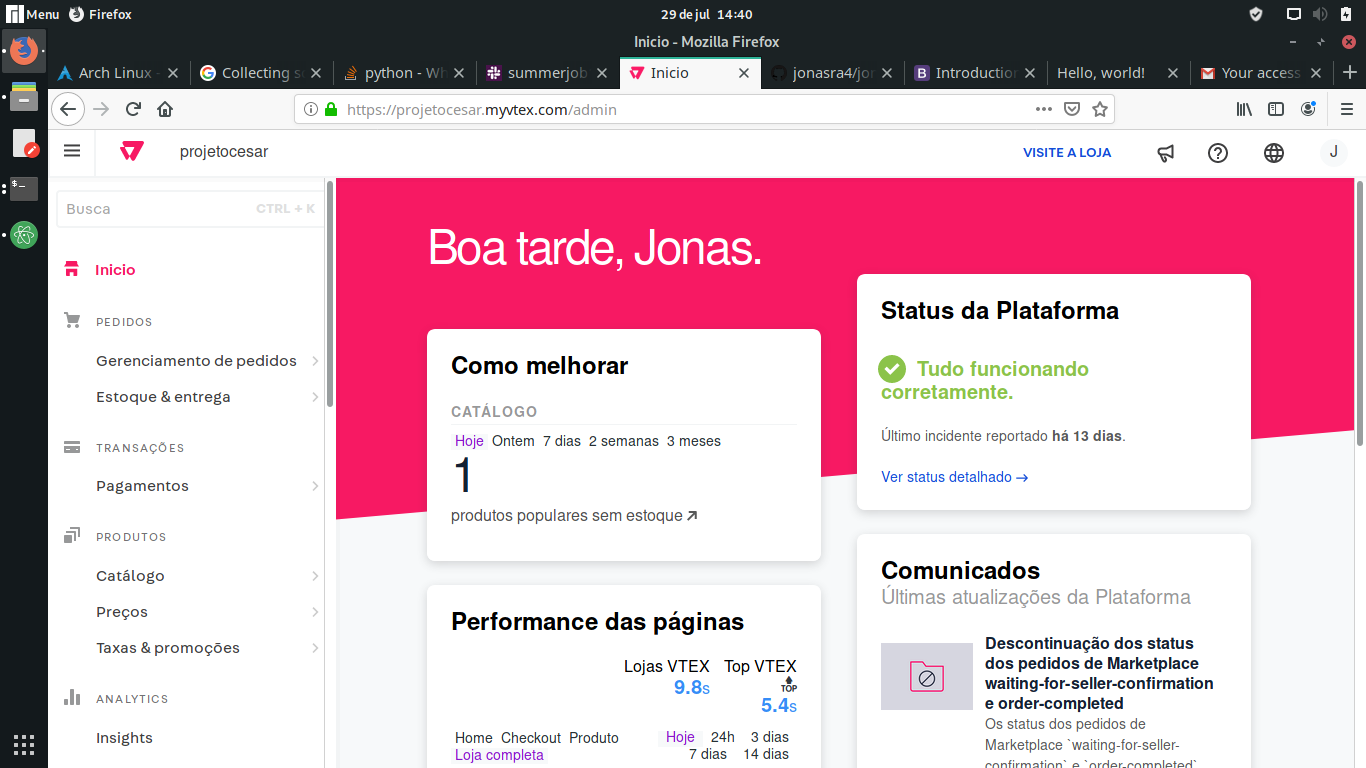
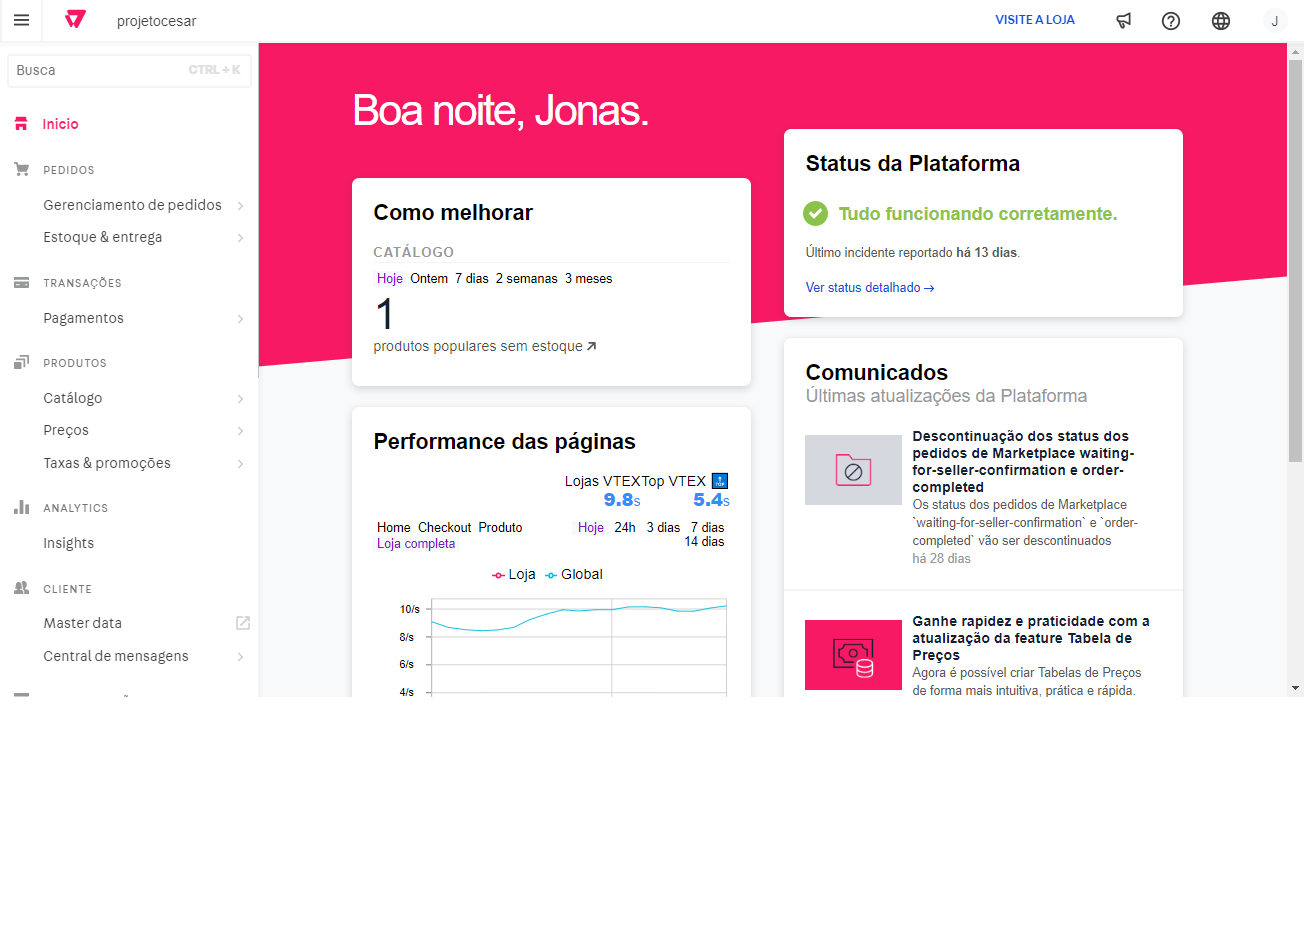
mobile

diff --git a/css/style.css b/css/style.css
@@ -9,3 +9,24 @@ body#help{
 body#status{
    background-image: url("../img/status.png");
 }
+
+@media only screen and (max-width: 600px) {
+  body#admin{
+     background-image: url("../img/admin-mobile.png");
+     background-repeat: no-repeat;
+     background-size: cover;
+  }
+
+  body#help{
+     background-image: url("../img/help-mobile.png");
+     background-repeat: no-repeat;
+     background-size: cover;
+  }
+
+  body#status{
+     background-image: url("../img/status-mobile.png");
+     background-repeat: no-repeat;
+     background-size: cover;
+  }
+
+}

diff --git a/status.html b/status.html
@@ -12,10 +12,6 @@
   </head>
 
   <body id="status">
-    <h1>Hello, world!</h1>
-
-
-
     <!-- Optional JavaScript -->
     <!-- jQuery first, then Popper.js, then Bootstrap JS -->
     <script src="https://code.jquery.com/jquery-3.3.1.slim.min.js" integrity="sha384-q8i/X+965DzO0rT7abK41JStQIAqVgRVzpbzo5smXKp4YfRvH+8abtTE1Pi6jizo" crossorigin="anonymous"></script>

diff --git a/admin.html b/admin.html
@@ -12,10 +12,6 @@
   </head>
 
   <body id="admin">
-    <h1>Hello, world!</h1>
-
-
-
     <!-- Optional JavaScript -->
     <!-- jQuery first, then Popper.js, then Bootstrap JS -->
     <script src="https://code.jquery.com/jquery-3.3.1.slim.min.js" integrity="sha384-q8i/X+965DzO0rT7abK41JStQIAqVgRVzpbzo5smXKp4YfRvH+8abtTE1Pi6jizo" crossorigin="anonymous"></script>

diff --git a/help.html b/help.html
@@ -12,10 +12,6 @@
   </head>
 
   <body id="help">
-    <h1>Hello, world!</h1>
-
-
-
     <!-- Optional JavaScript -->
     <!-- jQuery first, then Popper.js, then Bootstrap JS -->
     <script src="https://code.jquery.com/jquery-3.3.1.slim.min.js" integrity="sha384-q8i/X+965DzO0rT7abK41JStQIAqVgRVzpbzo5smXKp4YfRvH+8abtTE1Pi6jizo" crossorigin="anonymous"></script>
